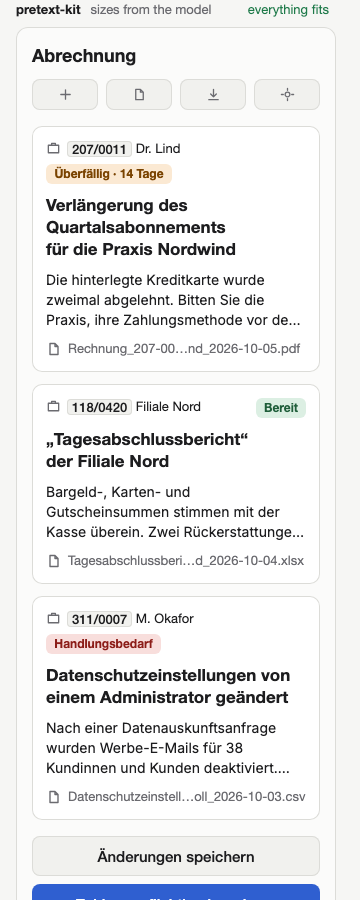
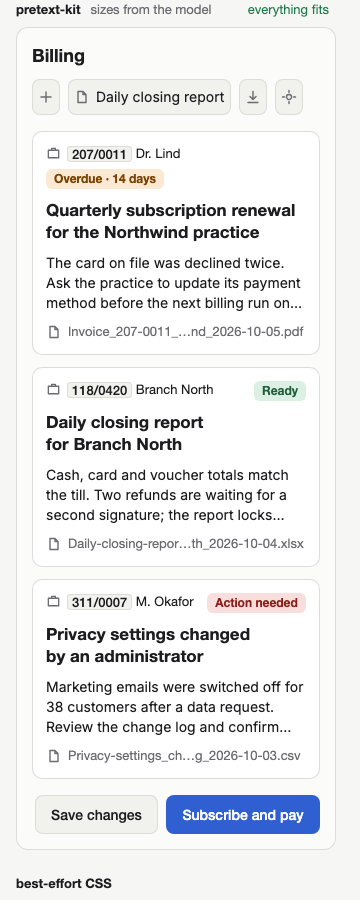
fix: phone toolbar keeps the report's label; whole-sentence list (8a review round 3)
With a collapse order, layoutRow now goes on past half: more icons in the
app's order until only the order's last button (the report) keeps its
label, on one line, else on two lines broken at spaces; only then all
icons, each as wide as its icon and padding, start-aligned. The tighter
padding is tried in the two-lines and all-icons steps too.

List messages split only after a period that doesn't follow a digit, and
titles end with one. Removed the unshown CSS hyphenation note. RowMode
comment updated. Phone screenshot regenerated.

diff --git a/examples/src/screen.ts b/examples/src/screen.ts
@@ -120,9 +120,11 @@ export const iconGapAt = (px: number) => Math.round(px * 0.45)
 export type Fit = { px: number, lineHeight: number, lines: number }
 // A button of a row (toolbar or footer): its width, and its label's fit, or null for icon-only.
 export type RowButton = { width: number, contentWidth: number, fit: Fit | null }
-// natural: every label at full size, widths from their text; shared: one smaller size for all;
-// icons: the widest labels collapsed to icons; two-lines: equal widths, labels on up to two lines
-// broken at spaces; all-icons: every button icon-only; stacked: buttons one under another.
+// natural: every label at full size, widths from their text; shared: one smaller size for all (and/or
+// tighter padding); icons: some buttons collapsed to icons in the app's collapse order (widest label
+// first without one), the rest labelled, on one line or the last label on two; two-lines: equal
+// widths, every label on up to two lines broken at spaces; all-icons: every button icon-only, content
+// widths; stacked: buttons one under another (footer).
 export type RowMode = 'natural' | 'shared' | 'icons' | 'two-lines' | 'all-icons' | 'stacked'
 export type Row = { mode: RowMode, height: number, icon: number, padX: number, buttons: RowButton[] }
 export type CardLayout = {
@@ -241,8 +243,10 @@ export function createModel(): Model {
   //      widths; then the same with tighter horizontal padding;
   //   3. icons (toolbar): buttons become icon-only one at a time in the app's collapse order (the least
   //      important first; widest label first only when the app gives no order), at most half of them;
-  //   4. two-lines: equal widths, every label on up to two lines, broken at spaces only;
-  //   5. all-icons (toolbar) or stacked (footer).
+  //   4. two-lines: equal widths, every label on up to two lines, broken at spaces only (then tighter);
+  //   5. toolbar with a collapse order: more icons until only the order's last button keeps its label,
+  //      on one line, else on two lines broken at spaces;
+  //   6. all-icons (toolbar, content widths, start-aligned) or stacked (footer).
   // Steps 1 and 2 are one fitFontSizeRich call over the whole row as one line (each label an item that
   // never breaks, padding and gaps as extra width), so the shared size is the kit's answer.
   function layoutRow(o: {
@@ -259,71 +263,109 @@ export function createModel(): Model {
       icons ? [{ width: lead(px) }, { text: ls[i]!, font: font(px) }] : [{ text: ls[i]!, font: font(px) }]
     const ownWidth = (i: number, px: number) => shrinkwrapRich(richOne(`${o.key}|own|${i}|${px}|${role.style.fontFamily}\n${ls[i]}`, own(i, px)), Number.POSITIVE_INFINITY).width
 
-    // Steps 1-3: one line, content widths, some labels possibly collapsed to icons.
+    // One line, content widths, the first k buttons of the collapse order shown as icons, at padding pad.
     const order = o.collapseOrder ?? ls.map((_, i) => i).sort((a, b) => ownWidth(b, max) - ownWidth(a, max))
-    const maxCollapsed = icons ? Math.floor(n / 2) : 0
-    const attempts: { k: number, pad: number }[] = [{ k: 0, pad: padX }, { k: 0, pad: o.tightPadX }]
-    for (let k = 1; k <= maxCollapsed; k++) attempts.push({ k, pad: o.tightPadX })
-    for (const { k, pad } of attempts) {
+    const oneLine = (k: number, pad: number): Row | null => {
       const collapsed = new Set(order.slice(0, k))
-      const padX = pad
       const items = (px: number): Array<RichInlineItem | RichInlineBox> => ls.flatMap((s, i) => {
         const after = i < n - 1 ? gap : 0
-        if (collapsed.has(i)) return [{ width: 2 * padX + iconAt(px) + after }]
+        if (collapsed.has(i)) return [{ width: 2 * pad + iconAt(px) + after }]
         return [
-          { width: padX + lead(px) },
-          { text: s, font: font(px), break: 'never' as const, extraWidth: padX + after },
+          { width: pad + lead(px) },
+          { text: s, font: font(px), break: 'never' as const, extraWidth: pad + after },
         ]
       })
       let u = max
       while (u >= floor) {
         const f = fitFontSizeRich(sizedRich(`${o.key}|row|${pad}|${[...collapsed].join(',')}|${role.style.fontFamily}\n${ls.join('\n')}`, items, floor, u), { width: inner, maxLines: 1 }, lh)
-        if (f === null) break
+        if (f === null) return null
         // Each button is its own text's width, whole pixels, so check the rounded sum still fits.
-        const widths = ls.map((_, i) => collapsed.has(i) ? 2 * padX + iconAt(f.px) : ownWidth(i, f.px) + 2 * padX)
+        const widths = ls.map((_, i) => collapsed.has(i) ? 2 * pad + iconAt(f.px) : ownWidth(i, f.px) + 2 * pad)
         const used = widths.reduce((a, b) => a + b, 0) + gap * (n - 1)
         if (used <= inner) {
           const buttons = widths.map((width, i) =>
-            ({ width, contentWidth: width - 2 * padX, fit: collapsed.has(i) ? null : { px: f.px, lineHeight: lh(f.px), lines: 1 } }))
-          const mode: RowMode = k > 0 ? 'icons' : f.px === max && pad === o.padX ? 'natural' : 'shared'
-          return { mode, icon: iconAt(f.px), padX, height: Math.max(lh(f.px), iconAt(f.px)) + 2 * padY, buttons }
+            ({ width, contentWidth: width - 2 * pad, fit: collapsed.has(i) ? null : { px: f.px, lineHeight: lh(f.px), lines: 1 } }))
+          const mode: RowMode = k > 0 ? 'icons' : f.px === max && pad === padX ? 'natural' : 'shared'
+          return { mode, icon: iconAt(f.px), padX: pad, height: Math.max(lh(f.px), iconAt(f.px)) + 2 * padY, buttons }
         }
-        u = f.px - 1
-      }
-    }
-
-    // Step 4: equal widths, up to two lines, every break at a space: no word (nor the icon and the
-    // first word) may be wider than the button.
-    const equal = Math.floor((inner - gap * (n - 1)) / n)
-    const content = equal - 2 * padX
-    const wordsFit = (i: number, px: number) => {
-      const words = ls[i]!.split(' ')
-      return words.every((w, j) => (j === 0 ? lead(px) : 0) + natural(w, font(px)) <= content + FIT_TOLERANCE)
-    }
-    const spaces = (i: number, u: number): Fit | null => {
-      while (u >= floor) {
-        const items = (px: number) => own(i, px)
-        const f = fitFontSizeRich(sizedRich(`${o.key}|two|${i}|${role.style.fontFamily}\n${ls[i]}`, items, floor, u), { width: content, maxLines: 2 }, lh)
-        if (f === null) return null
-        if (wordsFit(i, f.px)) return { px: f.px, lineHeight: lh(f.px), lines: f.lineCount }
         u = f.px - 1
       }
       return null
     }
-    const two = fitTogether(spaces, n, max)
-    if (two !== null) {
-      const tallest = Math.max(...two.map(f => f.lines * f.lineHeight))
-      return {
-        mode: 'two-lines', icon: iconAt(two[0]!.px), padX, height: tallest + 2 * padY,
-        buttons: two.map(f => ({ width: equal, contentWidth: content, fit: f })),
+
+    // Up to two lines in a content box this wide, every break at a space: no word (nor the icon and
+    // the first word) may be wider than the box.
+    const spaces = (i: number, u: number, content: number): Fit | null => {
+      const wordsFit = (px: number) => ls[i]!.split(' ').every((w, j) =>
+        (j === 0 ? lead(px) : 0) + natural(w, font(px)) <= content + FIT_TOLERANCE)
+      while (u >= floor) {
+        const items = (px: number) => own(i, px)
+        const f = fitFontSizeRich(sizedRich(`${o.key}|two|${i}|${role.style.fontFamily}\n${ls[i]}`, items, floor, u), { width: content, maxLines: 2 }, lh)
+        if (f === null) return null
+        if (wordsFit(f.px)) return { px: f.px, lineHeight: lh(f.px), lines: f.lineCount }
+        u = f.px - 1
+      }
+      return null
+    }
+
+    // Steps 1-3: full size, a shared size, tighter padding, then icons up to half the buttons.
+    const half = icons ? Math.floor(n / 2) : 0
+    for (const [k, pad] of [[0, padX], [0, o.tightPadX], ...Array.from({ length: half }, (_, j) => [j + 1, o.tightPadX])] as [number, number][]) {
+      const r = oneLine(k, pad)
+      if (r !== null) return r
+    }
+
+    // Step 4: equal widths, every label on up to two lines broken at spaces; then with tighter padding.
+    for (const pad of [padX, o.tightPadX]) {
+      const equal = Math.floor((inner - gap * (n - 1)) / n)
+      const content = equal - 2 * pad
+      const two = fitTogether((i, u) => spaces(i, u, content), n, max)
+      if (two !== null) {
+        const tallest = Math.max(...two.map(f => f.lines * f.lineHeight))
+        return {
+          mode: 'two-lines', icon: iconAt(two[0]!.px), padX: pad, height: tallest + 2 * padY,
+          buttons: two.map(f => ({ width: equal, contentWidth: content, fit: f })),
+        }
       }
     }
 
-    // Step 5.
+    if (icons && o.collapseOrder !== undefined) {
+      // Step 5a: keep collapsing in the app's order past half, until only its last button is labelled.
+      for (let k = half + 1; k <= n - 1; k++) {
+        const r = oneLine(k, o.tightPadX)
+        if (r !== null) return r
+      }
+      // Step 5b: that last label on up to two lines, broken at spaces, the others icons; content widths.
+      const keep = order[n - 1]!
+      for (const pad of [padX, o.tightPadX]) {
+        let u = max
+        while (u >= floor) {
+          const iconsWidth = (n - 1) * (2 * pad + iconAt(u))
+          const content = inner - iconsWidth - gap * (n - 1) - 2 * pad
+          const f = content > 0 ? spaces(keep, u, content) : null
+          if (f === null) break
+          const iconW = 2 * pad + iconAt(f.px)
+          const labelContent = shrinkwrapRich(richOne(`${o.key}|own|${keep}|${f.px}|${role.style.fontFamily}\n${ls[keep]}`, own(keep, f.px)), content).width
+          const used = (n - 1) * iconW + labelContent + 2 * pad + gap * (n - 1)
+          if (used <= inner) {
+            return {
+              mode: 'icons', icon: iconAt(f.px), padX: pad, height: Math.max(f.lines * f.lineHeight, iconAt(f.px)) + 2 * padY,
+              buttons: ls.map((_, i) => i === keep
+                ? { width: labelContent + 2 * pad, contentWidth: labelContent, fit: f }
+                : { width: iconW, contentWidth: iconAt(f.px), fit: null }),
+            }
+          }
+          u = f.px - 1
+        }
+      }
+    }
+
+    // Step 5c: every button icon-only, each as wide as its icon and padding, start-aligned.
     if (icons) {
+      const pad = n * (2 * padX + iconAt(floor)) + gap * (n - 1) <= inner ? padX : o.tightPadX
       return {
-        mode: 'all-icons', icon: iconAt(floor), padX, height: iconAt(floor) + 2 * padY,
-        buttons: ls.map(() => ({ width: equal, contentWidth: content, fit: null })),
+        mode: 'all-icons', icon: iconAt(floor), padX: pad, height: iconAt(floor) + 2 * padY,
+        buttons: ls.map(() => ({ width: 2 * pad + iconAt(floor), contentWidth: iconAt(floor), fit: null })),
       }
     }
     const full = inner - 2 * padX

diff --git a/examples/responsive-ui.html b/examples/responsive-ui.html
@@ -22,8 +22,10 @@
       <li><b>A toolbar and a button pair in one shared size</b>, chosen by measuring: full size with content widths,
         else one smaller size (never below 90%), else tighter padding, else icon-only one button at a time in the
         app's order (settings, then export, then new invoice; the daily closing report, this screen's subject,
-        keeps its label longest), else two lines broken at spaces, else all icons. CSS wraps the row onto a second
-        line instead.</li>
+        keeps its label longest), else two lines broken at spaces. On a phone the kit keeps one row and only the
+        report's label; the other buttons become icons named by <code>aria-label</code>. CSS keeps every label at
+        the cost of 2–3 rows. (In German at a 320px screen even „Tagesabschlussbericht“ doesn't fit at 90% of its
+        size, so all four buttons are icons, each as wide as its icon.)</li>
       <li><b>Badges whose text fits</b> instead of an ellipsis: one badge size for the list, as wide as its text, and
         the case row wraps before a badge is cut.</li>
       <li><b>A middle cut without a known split point</b>: <code>truncateMiddle</code> keeps as much of each end of a
@@ -83,10 +85,6 @@
       <li><b>Attachments</b>: <code>truncateMiddle</code> with no split point. CSS: a start span with
         <code>text-overflow: ellipsis</code> and an end span from the last <code>_</code>, which <b>matches the kit
         when the split point is known</b>, as it is for these names.</li>
-      <li>A CSS weakness this page shows: in German at a 340–360px screen, Chromium's <code>text-wrap: balance</code>
-        with <code>overflow-wrap</code> splits „Quartalsabonnements“ as „Quartalsabonn|ements“, with no hyphen,
-        because <code>hyphens: auto</code> has no German dictionary there. The kit hyphenates that word only when it
-        is wider than the card, and never balances a title narrower than its widest word.</li>
       <li>Fonts come from <code>fontFromStyle(getComputedStyle(el))</code> on probe elements styled like each role;
         <code>watchFonts</code> clears Pretext's cache when Inter arrives, and the page prepares again.</li>
     </ul>

diff --git a/examples/check.ts b/examples/check.ts
@@ -112,7 +112,8 @@ for (const vw of VIEWPORTS) {
         // The README's hero state: German, side by side where the page allows. Log what the kit's toolbar did.
         const half = await page.evaluate(() => Math.floor((document.getElementById('stage')!.clientWidth - 24) / 2))
         const w = vw === 360 ? 320 : half
-        await both(lang('de'), slider('width', w))(page)
+        for (const l of ['en', 'fr', 'de']) {
+        await both(lang(l), slider('width', w))(page)
         await frame(page)
         const tb = await page.evaluate(() => {
           const bar = document.querySelector<HTMLElement>('.screen.kit .toolbar')!
@@ -120,9 +121,13 @@ for (const vw of VIEWPORTS) {
           return `${bar.dataset.mode}: ` + buttons.map(b => b.getAttribute('aria-label') !== null ? `[${b.getAttribute('aria-label')} as icon]` : (b.textContent ?? '').trim()).join(' | ')
             + ` (${buttons.map(b => b.style.width).join(', ')}, padding ${buttons[0]!.style.paddingLeft})`
         })
-        log.push(`${where} de toolbar at a ${w}px screen: ${tb}`)
+        log.push(`${where} ${l} toolbar at a ${w}px screen: ${tb}`)
+        }
       }
       if (SHOTS && (vw === 1280 || (vw === 360 && p === 'responsive-ui'))) {
+        // The phone shot in English, where the report keeps its label; in German at 320px even it
+        // doesn't fit at 90% of its size, and all four buttons are icons.
+        if (p === 'responsive-ui' && vw === 360) await lang('en')(page)
         if (p === 'text-size') await slider('scale', 1.3)(page)
         await frame(page)
         await page.evaluate(p => (document.querySelector(p === 'languages' ? '.lang-block:nth-child(2)' : '#stage') as HTMLElement).scrollIntoView(), p)

diff --git a/examples/languages.html b/examples/languages.html
@@ -47,10 +47,6 @@
         same break opportunities; the verify sweep runs German and French hyphenated this way through every helper
         (<code>verify/RESULTS.md</code>).</li>
       <li>Titles, bodies and card heights: <b>CSS handles these equally well</b> for display.</li>
-      <li>A CSS weakness this page shows: in German at a 340–360px screen (on Responsive UI), Chromium's <code>text-wrap: balance</code>
-        with <code>overflow-wrap</code> splits „Quartalsabonnements“ as „Quartalsabonn|ements“, with no hyphen,
-        because <code>hyphens: auto</code> has no German dictionary there. The kit hyphenates that word only when it
-        is wider than the card, and never balances a title narrower than its widest word.</li>
       <li>File names, case numbers and names are never hyphenated.</li>
     </ul>
   </section>

diff --git a/examples/src/vlist.ts b/examples/src/vlist.ts
@@ -22,7 +22,8 @@ const ESTIMATE = 60
 // Deterministic messages of varied length, made of whole sentences (and whole titles) from the
 // screen's own copy in all three languages, so no message reads as cut off.
 function messages(): string[] {
-  const pool = LANGS.flatMap(l => STRINGS[l].cards.flatMap(c => [c.title, ...c.body.split(/(?<=[.;])\s+/)]))
+  // Split after a period that doesn't follow a digit ("am 1. November" stays whole); titles get one.
+  const pool = LANGS.flatMap(l => STRINGS[l].cards.flatMap(c => [c.title + '.', ...c.body.split(/(?<=[^\d]\.)\s+/)]))
   const out: string[] = []
   for (let i = 0; i < COUNT; i++) {
     const start = (i * 7) % pool.length
